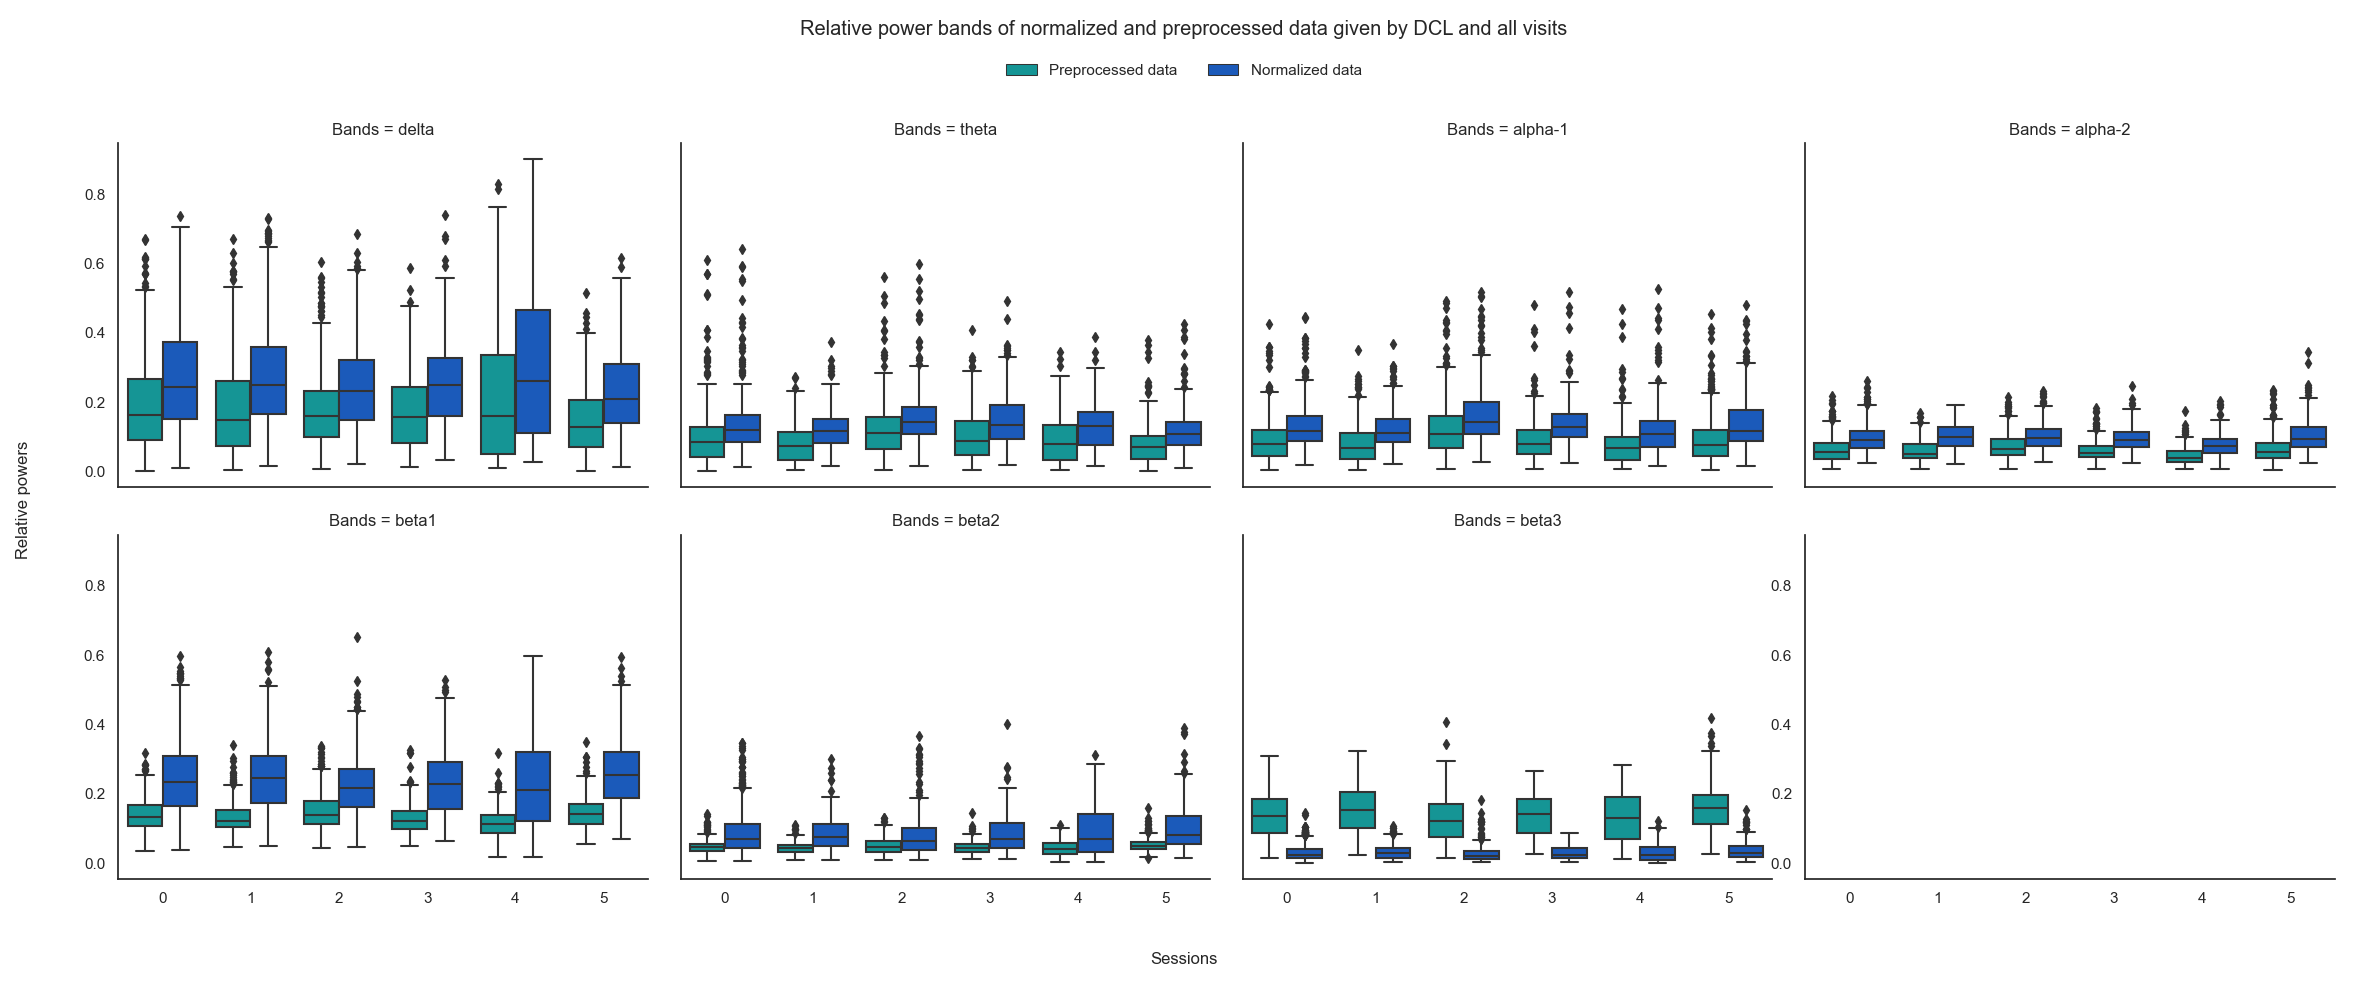
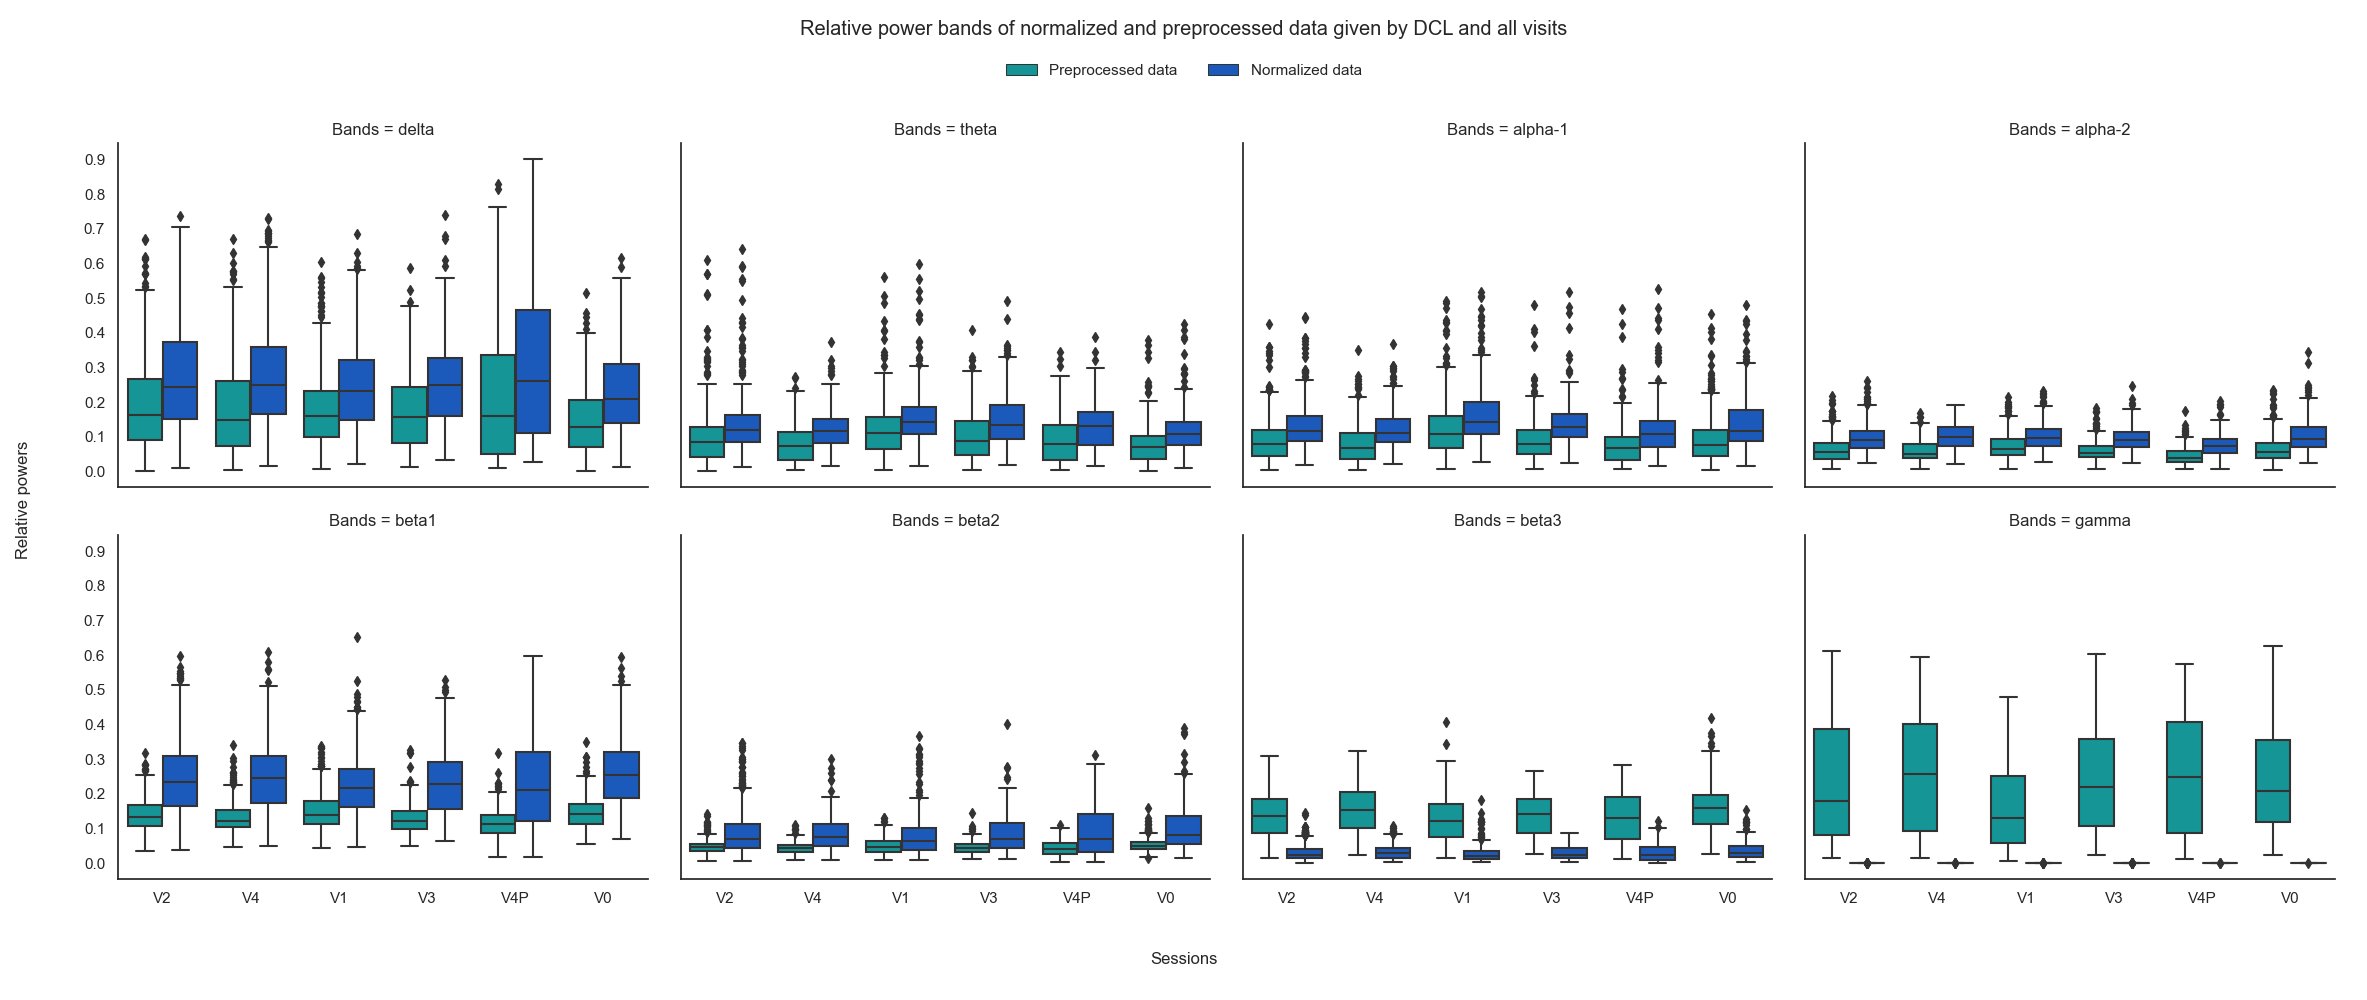
changes graphics

Changed region(s): [[0.7402, 0.713, 0.9869, 0.868], [0.8635, 0.496, 0.8944, 0.527]]

diff --git a/sovaViolin/functions_postprocessing_components.py b/sovaViolin/functions_postprocessing_components.py
@@ -43,6 +43,7 @@ def compare_all_nD_ncomp_power(data,plot=False,encode=False):
         plt.show()
     if encode:
         img_encode=fig2img_encode(axs)
+        plt.cla()
         plt.close()
         return img_encode
     return 
@@ -60,6 +61,7 @@ def compare_nD_ncomp_power(data,name_band,plot=False,encode=False):
         plt.show()
     if encode:
         img_encode=fig2img_encode(axs)
+        plt.cla()
         plt.close()
         return img_encode
 
@@ -107,6 +109,7 @@ def compare_norm_1D_1G_nB_ncomp_power(data,name_dataset,name_group,num_columns=4
         plt.show()
     if encode:
         img_encode=fig2img_encode(axs)
+        plt.cla()
         plt.close()
         return img_encode
     return 
@@ -139,7 +142,7 @@ def compare_norm_1D_1G_1B_nV_ncomp_power(data,name_dataset,name_group,name_band,
     filter_component=filter_group_dataset[filter_group_dataset.Components.isin(components) & filter_group_dataset.Bands.isin([name_band])] 
     sns.set(rc={'figure.figsize':(11.7,8.27)})
     sns.set_theme(style="white")
-    axs=sns.catplot(x='Session',y="Powers",data=filter_group_dataset,hue='Stage',dodge=True, kind="box",col='Components',col_wrap=num_columns,palette='winter_r',fliersize=1.5,linewidth=0.5,legend=False)
+    axs=sns.catplot(x='Session',y="Powers",data=filter_component,hue='Stage',dodge=True, kind="box",col='Components',col_wrap=num_columns,palette='winter_r',fliersize=1.5,linewidth=0.5,legend=False)
     plt.yticks(np.arange(0,1,0.1))
     axs.set(xlabel=None)
     axs.set(ylabel=None)
@@ -155,6 +158,7 @@ def compare_norm_1D_1G_1B_nV_ncomp_power(data,name_dataset,name_group,name_band,
         plt.show()
     if encode:
         img_encode=fig2img_encode(axs)
+        plt.cla()
         plt.close()
         return img_encode
     return 
@@ -199,8 +203,8 @@ def compare_norm_1D_1G_1B_nV_all_comp_power(data,name_dataset,name_group,num_col
     if plot: 
         plt.show()
     if encode:
-        
         img_encode=fig2img_encode(axs)
+        plt.cla()
         plt.close()
         return img_encode
     return 

diff --git a/sovaViolin/functions_postprocessing_channels.py b/sovaViolin/functions_postprocessing_channels.py
@@ -27,7 +27,7 @@ def compare_all_nD_ch_power(data,plot=False,encode=False):
         plt.show()
     if encode:
         img_encode=fig2img_encode(axs)
-        
+        plt.cla()
         plt.close()
         return img_encode
     return 
@@ -39,6 +39,7 @@ def compare_nD_ch_power(data,plot=False,encode=False):
         plt.show()
     if encode:
         img_encode=fig2img_encode(axs)
+        plt.cla()
         plt.close()
         return img_encode
 
@@ -52,8 +53,13 @@ def compare_norm_1D_1G_nB_ch_power(data,name_dataset,save=False,plot=False,encod
     filter_group_dataset=data[filter]
     sns.set(rc={'figure.figsize':(11.7,8.27)})
     sns.set_theme(style="white")
-
-    plt.title('Relative power bands of normalized and preprocessed data given')
+    axs=sns.catplot(x='Bands',y="Powers",data=filter_group_dataset,hue="Stage",palette='winter_r',kind="box",col='Group',col_wrap=2,legend=False)
+    plt.yticks(np.arange(0,1,0.1))
+    axs.fig.suptitle("Relative power bands of normalized and preprocessed data given")
+    axs.set(xlabel=None)
+    axs.set(ylabel=None)
+    axs.add_legend(loc='upper center',bbox_to_anchor=(.5,.95),ncol=2)
+    axs.fig.subplots_adjust(top=0.857,bottom=0.121, right=0.986,left=0.05, hspace=0.138, wspace=0.062)
     plt.yticks(np.arange(0,1,0.1))
     
     if save==True:
@@ -63,6 +69,7 @@ def compare_norm_1D_1G_nB_ch_power(data,name_dataset,save=False,plot=False,encod
         plt.show()
     if encode:
         img_encode=fig2img_encode(axs)
+        plt.cla()
         plt.close()
         return img_encode
     return 
@@ -104,6 +111,7 @@ def compare_norm_1D_1G_nB_nV_ch_power(data,name_dataset,name_group,num_columns=4
         plt.show()
     if encode:
         img_encode=fig2img_encode(axs)
+        plt.cla()
         plt.close()
         return img_encode
     return 

diff --git a/test_graphics_components_powers.py b/test_graphics_components_powers.py
@@ -38,4 +38,4 @@ GB = ['G1','CTR','DCL','DTA']
 ## Graphics for groups and all visits in components 
 bands= datos['Bands'].unique()
 for gr in GB:
-    compare_norm_1D_1G_1B_nV_all_comp_power(datos,'BIOMARCADORES',gr,num_columns=4, save=True,plot=Falsee,encode=False)
+    compare_norm_1D_1G_1B_nV_all_comp_power(datos,'BIOMARCADORES',gr,num_columns=4, save=True,plot=False,encode=False)
